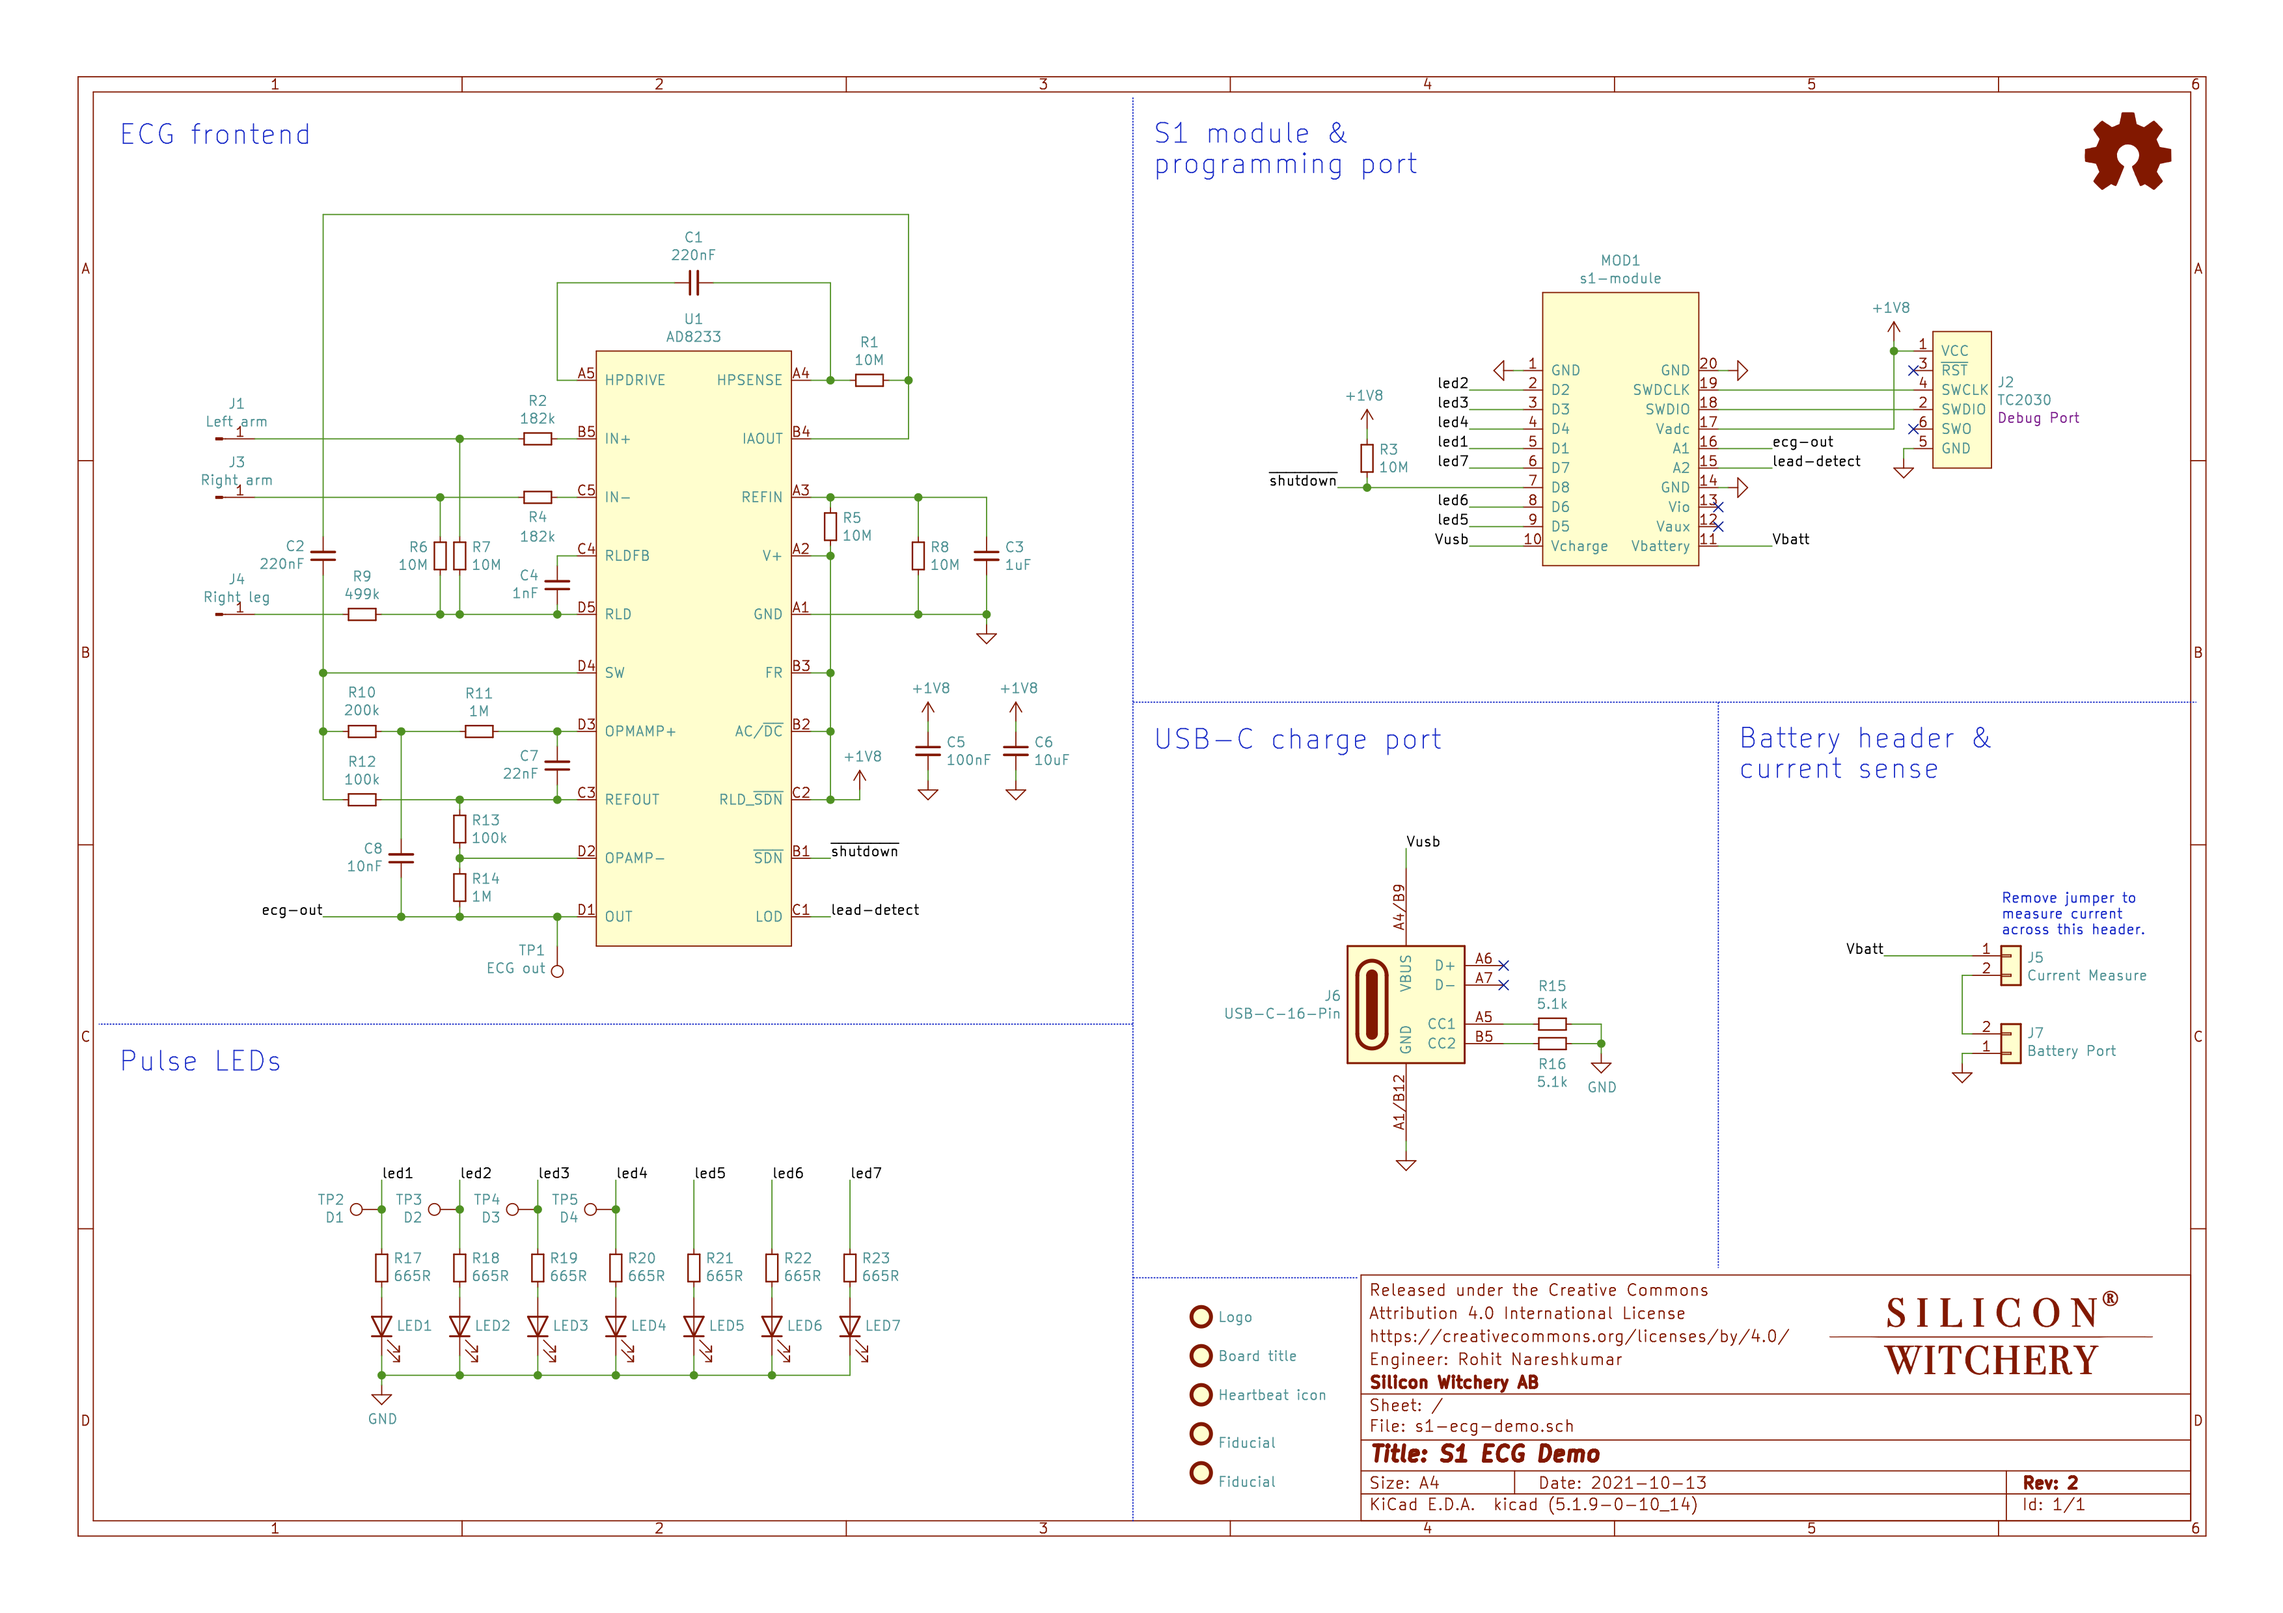
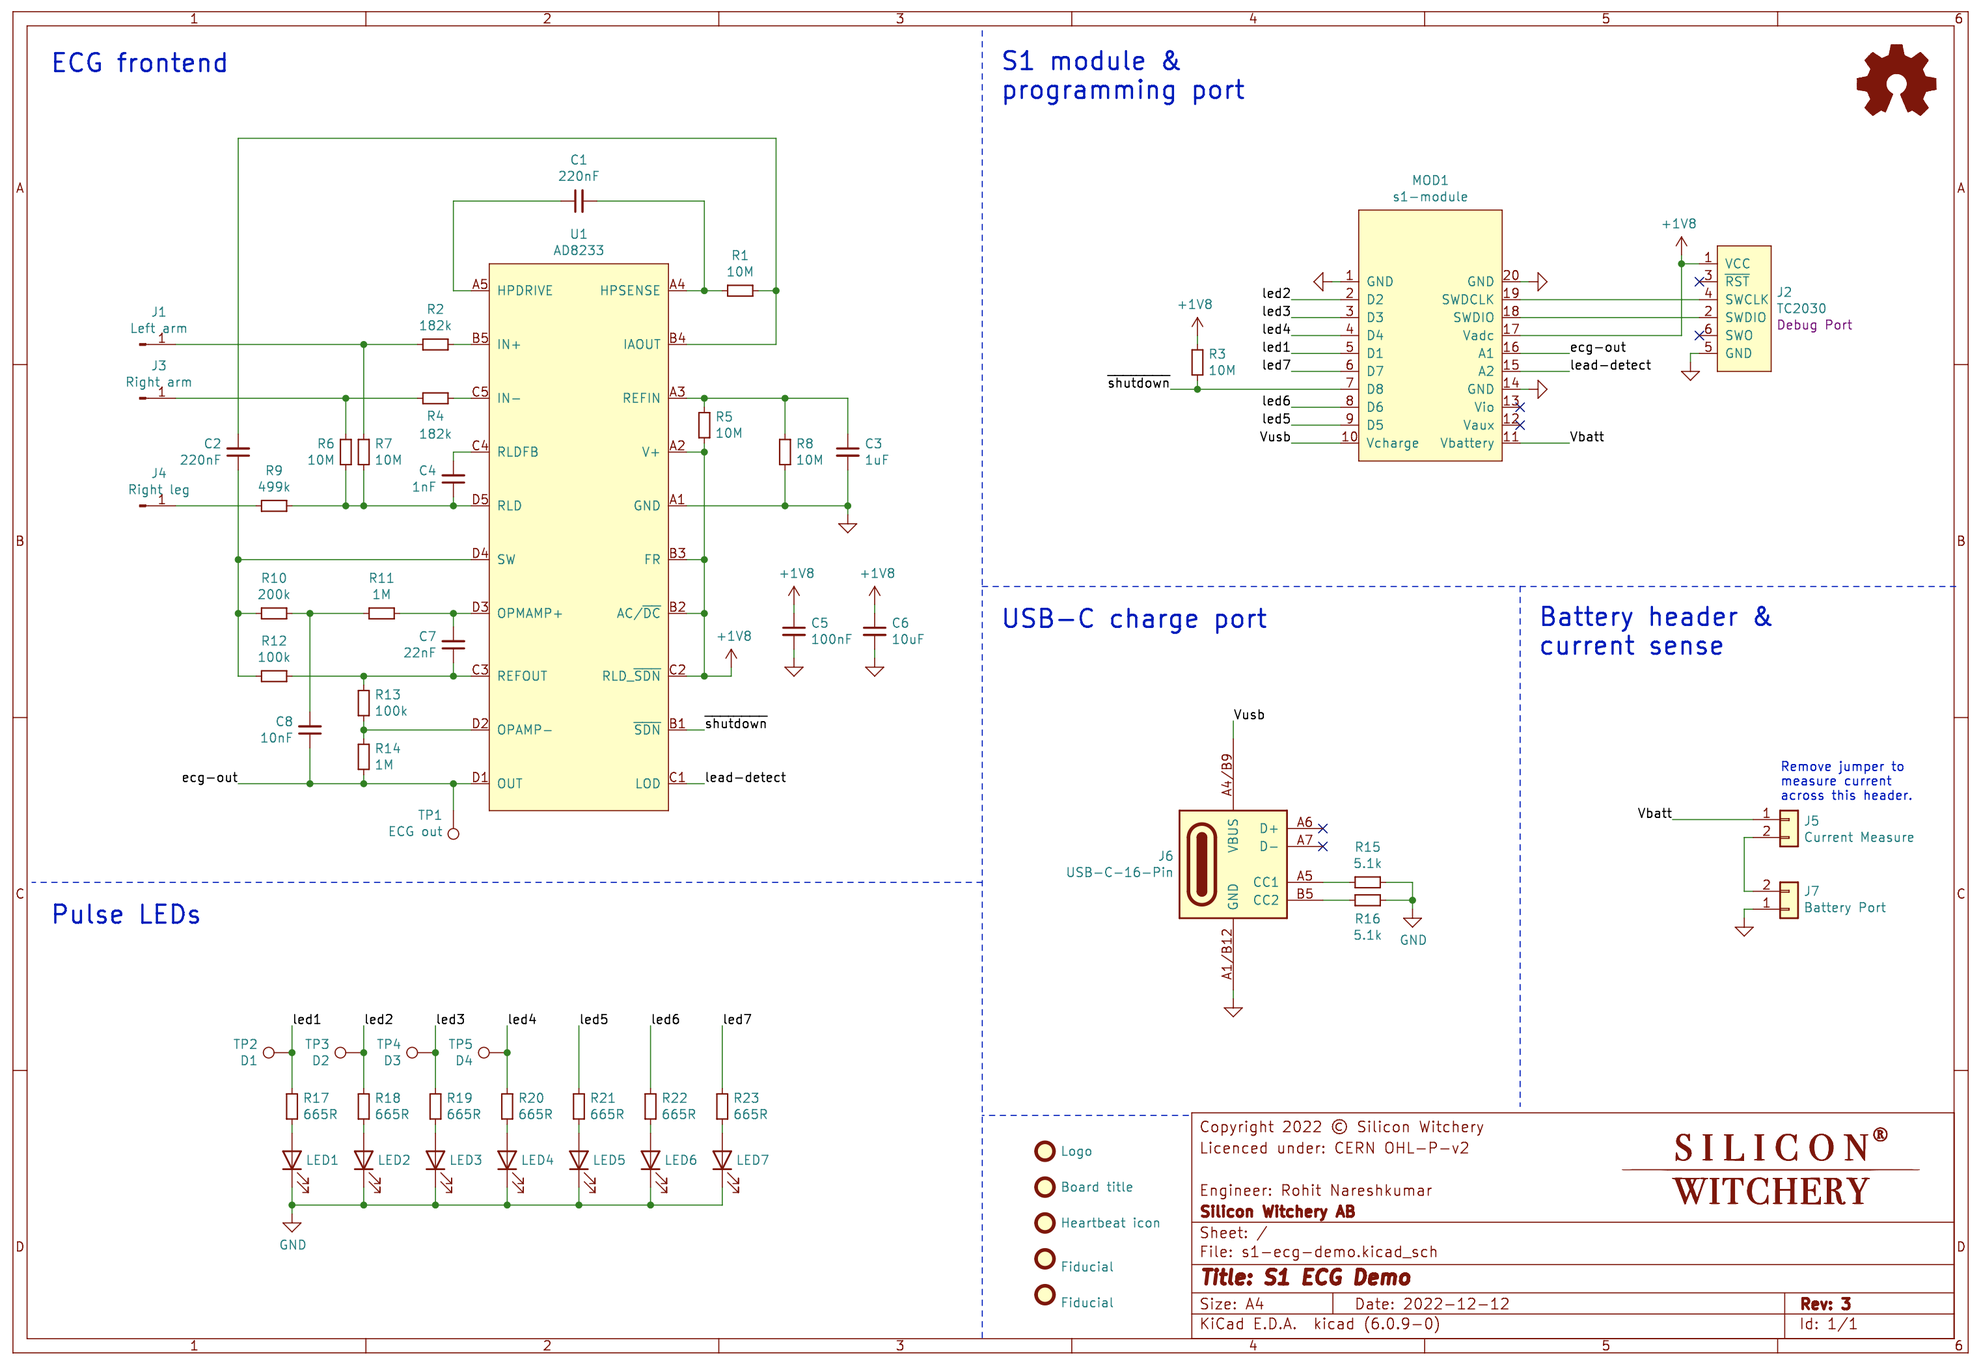
Updated licences

diff --git a/s1-popout-board/s1-popout-board.md b/s1-popout-board/s1-popout-board.md
@@ -3,7 +3,7 @@ title: S1 Popout Board
 description: A low cost development kit to quickly get started with the S1 Module.
 image: /images/annotated-devkit.png
 nav_order: 3
-last_modified_date: 21st October 2021, 03:51 PM
+last_modified_date: December 12th 2022, 13:56 UTC
 ---
 
 # S1 Popout Board
@@ -113,30 +113,6 @@ All the design files can be found within the S1 Popout Board [repository](https:
 
 ## Licence
 
-**This design is released under the [Creative Commons Attribution 4.0 International](https://creativecommons.org/licenses/by/4.0/) Licence.**
+Copyright 2022 © Silicon Witchery.
 
-This is a human-readable summary of (and not a substitute for) the [license](https://creativecommons.org/licenses/by/4.0/legalcode).
-
-### You are free to:
-{: .no_toc }
-
-**Share** — copy and redistribute the material in any medium or format
-
-**Adapt** — remix, transform, and build upon the material
-for any purpose, even commercially.
-
-The licensor cannot revoke these freedoms as long as you follow the license terms.
-
-### Under the following terms:
-{: .no_toc }
-
-**Attribution** — You must give appropriate credit, provide a link to the license, and indicate if changes were made. You may do so in any reasonable manner, but not in any way that suggests the licensor endorses you or your use.
-
-**No additional restrictions** — You may not apply legal terms or technological measures that legally restrict others from doing anything the license permits.
-
-### Notices:
-{: .no_toc }
-
-You do not have to comply with the license for elements of the material in the public domain or where your use is permitted by an applicable exception or limitation.
-
-No warranties are given. The license may not give you all of the permissions necessary for your intended use. For example, other rights such as publicity, privacy, or moral rights may limit how you use the material.
+This design is licenced under: [CERN Open Hardware Licence Version 2 - Permissive](https://ohwr.org/cern_ohl_p_v2.pdf).

diff --git a/s1-ecg-kit/s1-ecg-kit.md b/s1-ecg-kit/s1-ecg-kit.md
@@ -3,7 +3,7 @@ title: S1 ECG Kit
 description: An all-in-kit to build and test heart algorithms with ease.
 image: /images/annotated-ecg-kit.png
 nav_order: 4
-last_modified_date: 21st October 2021, 03:51 PM
+last_modified_date: December 12th 2022, 13:56 UTC
 ---
 
 # S1 ECG Kit
@@ -168,30 +168,6 @@ Additionally, it has not been designed according to any standards in order to gu
 
 ## Licence
 
-**This design is released under the [Creative Commons Attribution 4.0 International](https://creativecommons.org/licenses/by/4.0/) Licence.**
+Copyright 2022 © Silicon Witchery.
 
-This is a human-readable summary of (and not a substitute for) the [license](https://creativecommons.org/licenses/by/4.0/legalcode).
-
-### You are free to:
-{: .no_toc }
-
-**Share** — copy and redistribute the material in any medium or format
-
-**Adapt** — remix, transform, and build upon the material
-for any purpose, even commercially.
-
-The licensor cannot revoke these freedoms as long as you follow the license terms.
-
-### Under the following terms:
-{: .no_toc }
-
-**Attribution** — You must give appropriate credit, provide a link to the license, and indicate if changes were made. You may do so in any reasonable manner, but not in any way that suggests the licensor endorses you or your use.
-
-**No additional restrictions** — You may not apply legal terms or technological measures that legally restrict others from doing anything the license permits.
-
-### Notices:
-{: .no_toc }
-
-You do not have to comply with the license for elements of the material in the public domain or where your use is permitted by an applicable exception or limitation.
-
-No warranties are given. The license may not give you all of the permissions necessary for your intended use. For example, other rights such as publicity, privacy, or moral rights may limit how you use the material.
+This design is licenced under: [CERN Open Hardware Licence Version 2 - Permissive](https://ohwr.org/cern_ohl_p_v2.pdf).

diff --git a/s1-module/s1-module.md b/s1-module/s1-module.md
@@ -3,7 +3,7 @@ title: S1 Module
 description: Hardware datasheet for the S1 Bluetooth-FPGA Module.
 image: /images/annotated-module.png
 nav_order: 2
-last_modified_date: April 1st 2022, 04:16 PM
+last_modified_date: December 12th 2022, 13:56 UTC
 ---
 
 # S1 Module
@@ -307,3 +307,5 @@ Purchasing parties agree to take responsibility that any delivered hardware, sof
 Silicon Witchery may hold back from delivering goods, services, or any other materials in its position, if it suspects they may be used outside the accordance of these Regulations.
 
 The Purchasing Parties agree to indemnify and hold harmless Silicon Witchery against any damages, costs, losses, and/or liabilities arising out of any non-compliance with Regulations.
+
+Copyright 2022 © Silicon Witchery.
